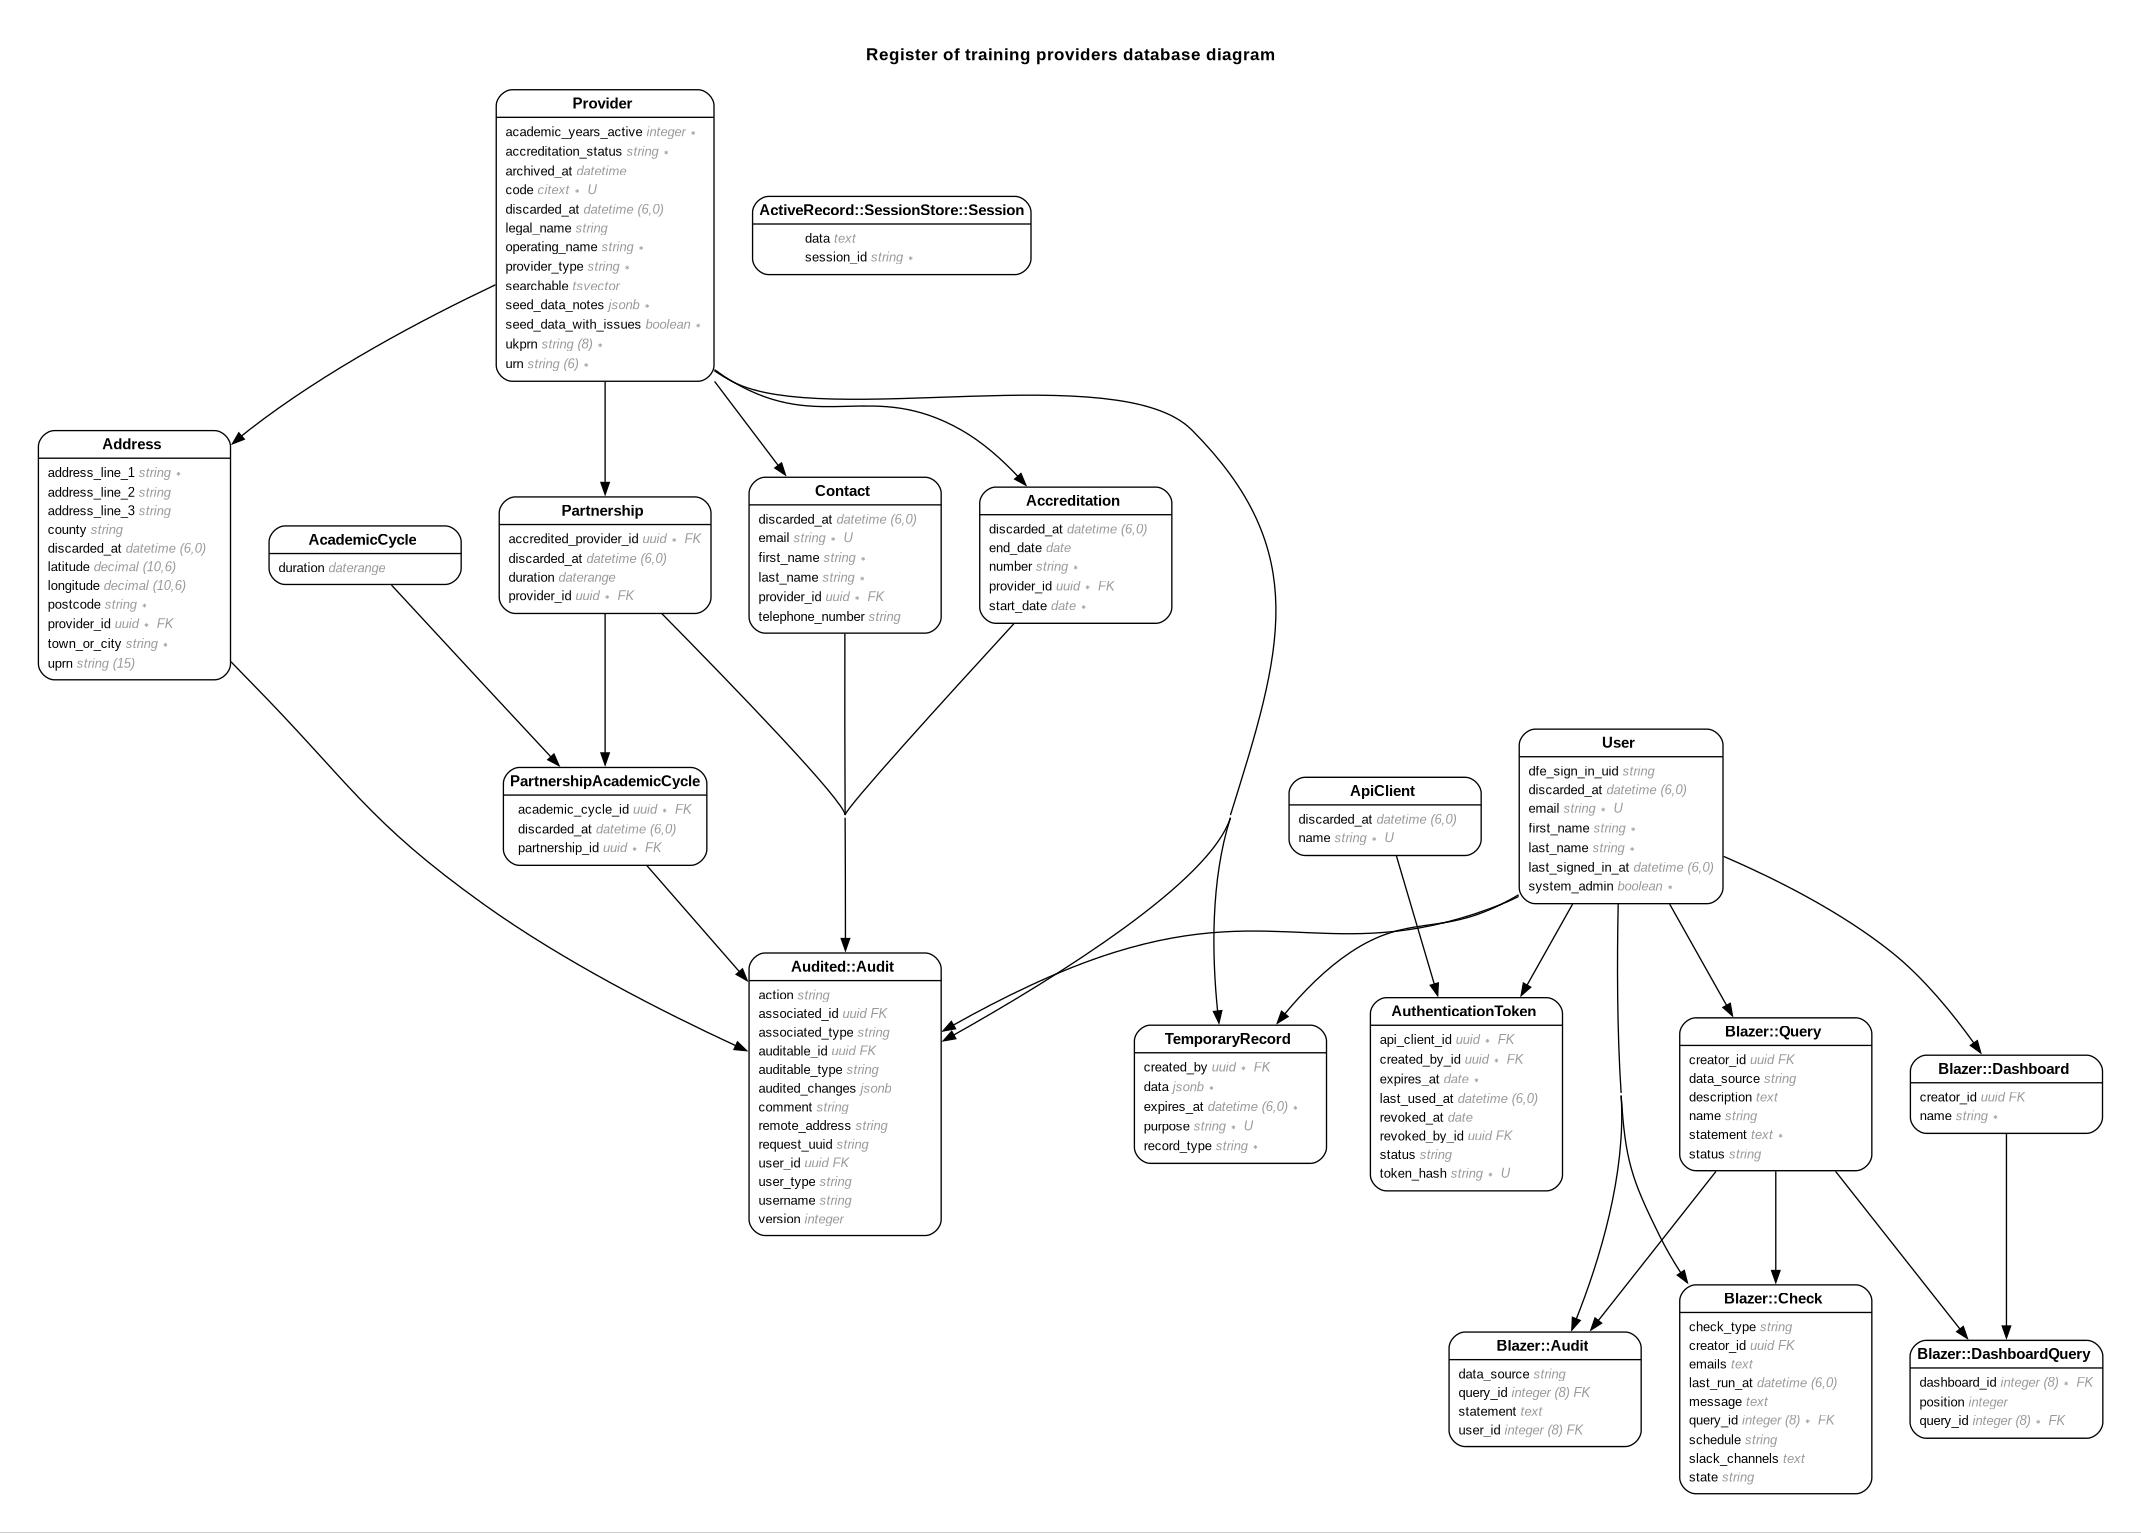
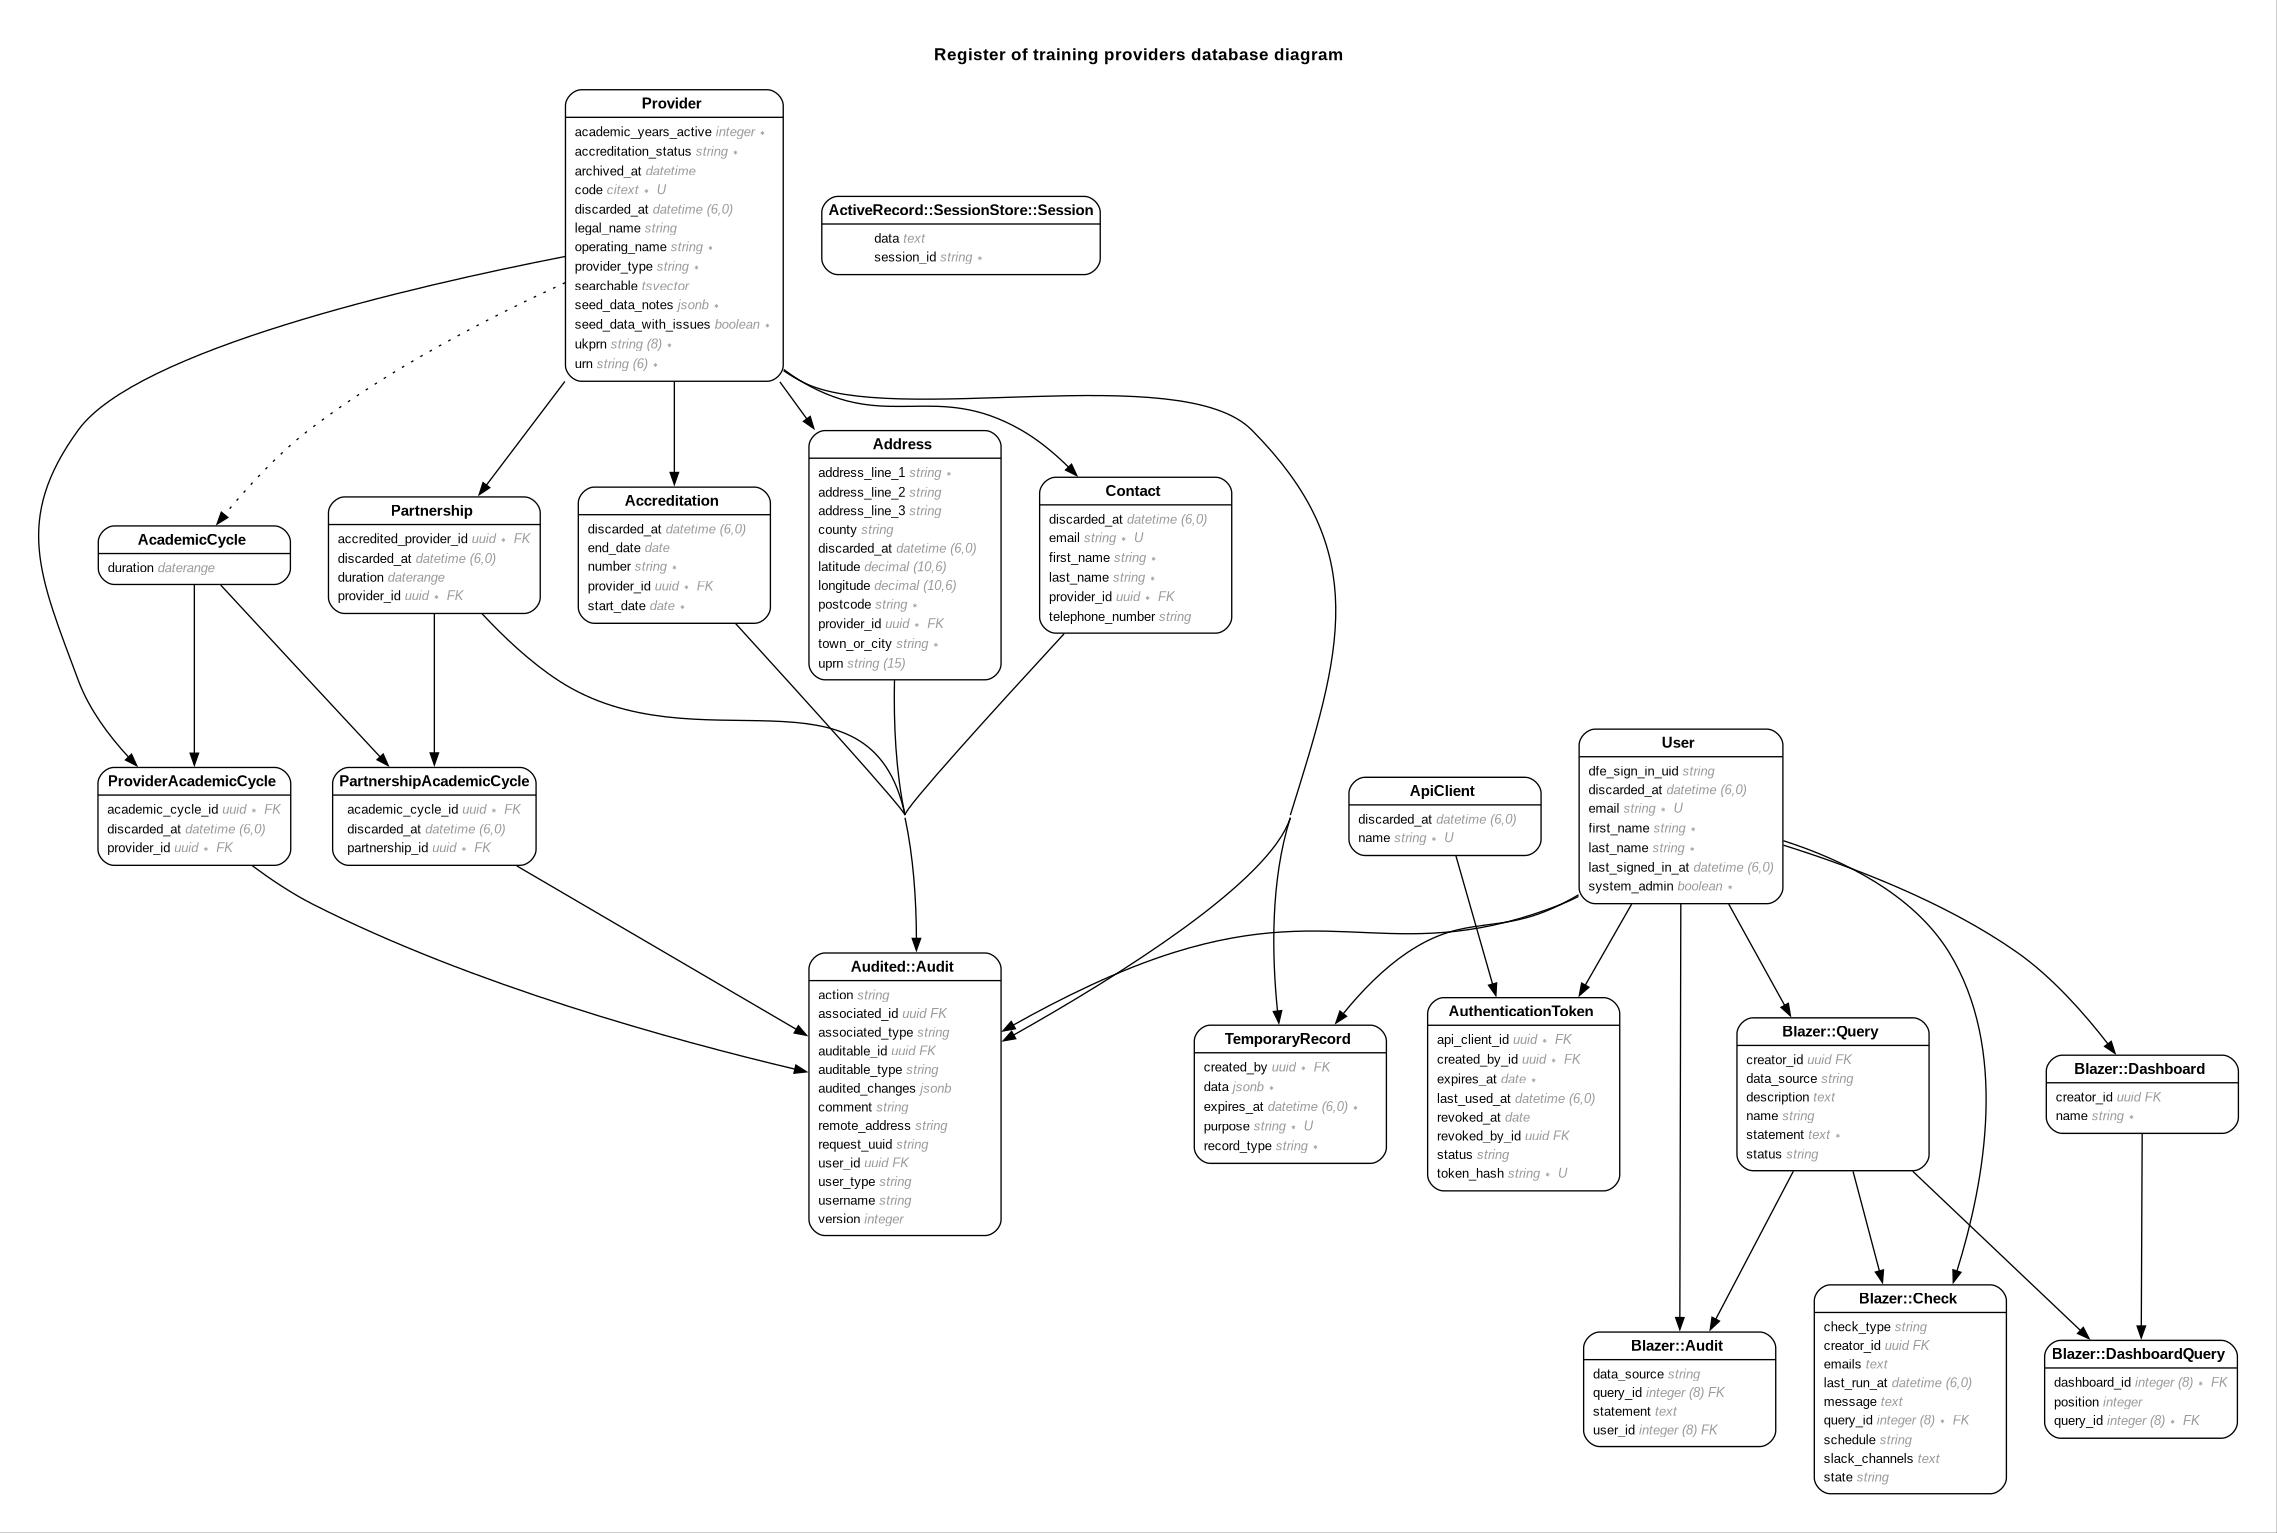
[0418] Added provider academic cycles migration

diff --git a/db/schema.rb b/db/schema.rb
@@ -10,7 +10,7 @@
 #
 # It's strongly recommended that you check this file into your version control system.
 
-ActiveRecord::Schema[8.1].define(version: 2026_02_16_145309) do
+ActiveRecord::Schema[8.1].define(version: 2026_03_11_153235) do
   # These are extensions that must be enabled in order to support this database
   enable_extension "citext"
   enable_extension "pgcrypto"
@@ -194,6 +194,17 @@ ActiveRecord::Schema[8.1].define(version: 2026_02_16_145309) do
     t.datetime "updated_at", null: false
     t.index ["accredited_provider_id"], name: "index_partnerships_on_accredited_provider_id"
     t.index ["provider_id"], name: "index_partnerships_on_provider_id"
+  end
+
+  create_table "provider_academic_cycles", id: :uuid, default: -> { "gen_random_uuid()" }, force: :cascade do |t|
+    t.uuid "academic_cycle_id", null: false
+    t.datetime "created_at", null: false
+    t.datetime "discarded_at"
+    t.uuid "provider_id", null: false
+    t.datetime "updated_at", null: false
+    t.index ["academic_cycle_id"], name: "index_provider_academic_cycles_on_academic_cycle_id"
+    t.index ["provider_id", "academic_cycle_id"], name: "idx_on_provider_id_academic_cycle_id_6c9594c444", unique: true
+    t.index ["provider_id"], name: "index_provider_academic_cycles_on_provider_id"
   end
 
   create_table "providers", id: :uuid, default: -> { "gen_random_uuid()" }, force: :cascade do |t|
@@ -390,6 +401,8 @@ ActiveRecord::Schema[8.1].define(version: 2026_02_16_145309) do
   add_foreign_key "partnership_academic_cycles", "partnerships"
   add_foreign_key "partnerships", "providers"
   add_foreign_key "partnerships", "providers", column: "accredited_provider_id"
+  add_foreign_key "provider_academic_cycles", "academic_cycles"
+  add_foreign_key "provider_academic_cycles", "providers"
   add_foreign_key "solid_queue_blocked_executions", "solid_queue_jobs", column: "job_id", on_delete: :cascade
   add_foreign_key "solid_queue_claimed_executions", "solid_queue_jobs", column: "job_id", on_delete: :cascade
   add_foreign_key "solid_queue_failed_executions", "solid_queue_jobs", column: "job_id", on_delete: :cascade

diff --git a/db/migrate/20260311153235_create_provider_academic_cycles.rb b/db/migrate/20260311153235_create_provider_academic_cycles.rb
@@ -1,0 +1,15 @@
+class CreateProviderAcademicCycles < ActiveRecord::Migration[8.1]
+  def change
+    create_table :provider_academic_cycles, id: :uuid, default: -> { "gen_random_uuid()" } do |t|
+      t.references :provider, null: false, type: :uuid, foreign_key: true
+      t.references :academic_cycle, null: false, type: :uuid, foreign_key: true
+
+      t.datetime :discarded_at
+      t.timestamps
+    end
+
+    add_index :provider_academic_cycles,
+              [:provider_id, :academic_cycle_id],
+              unique: true
+  end
+end
